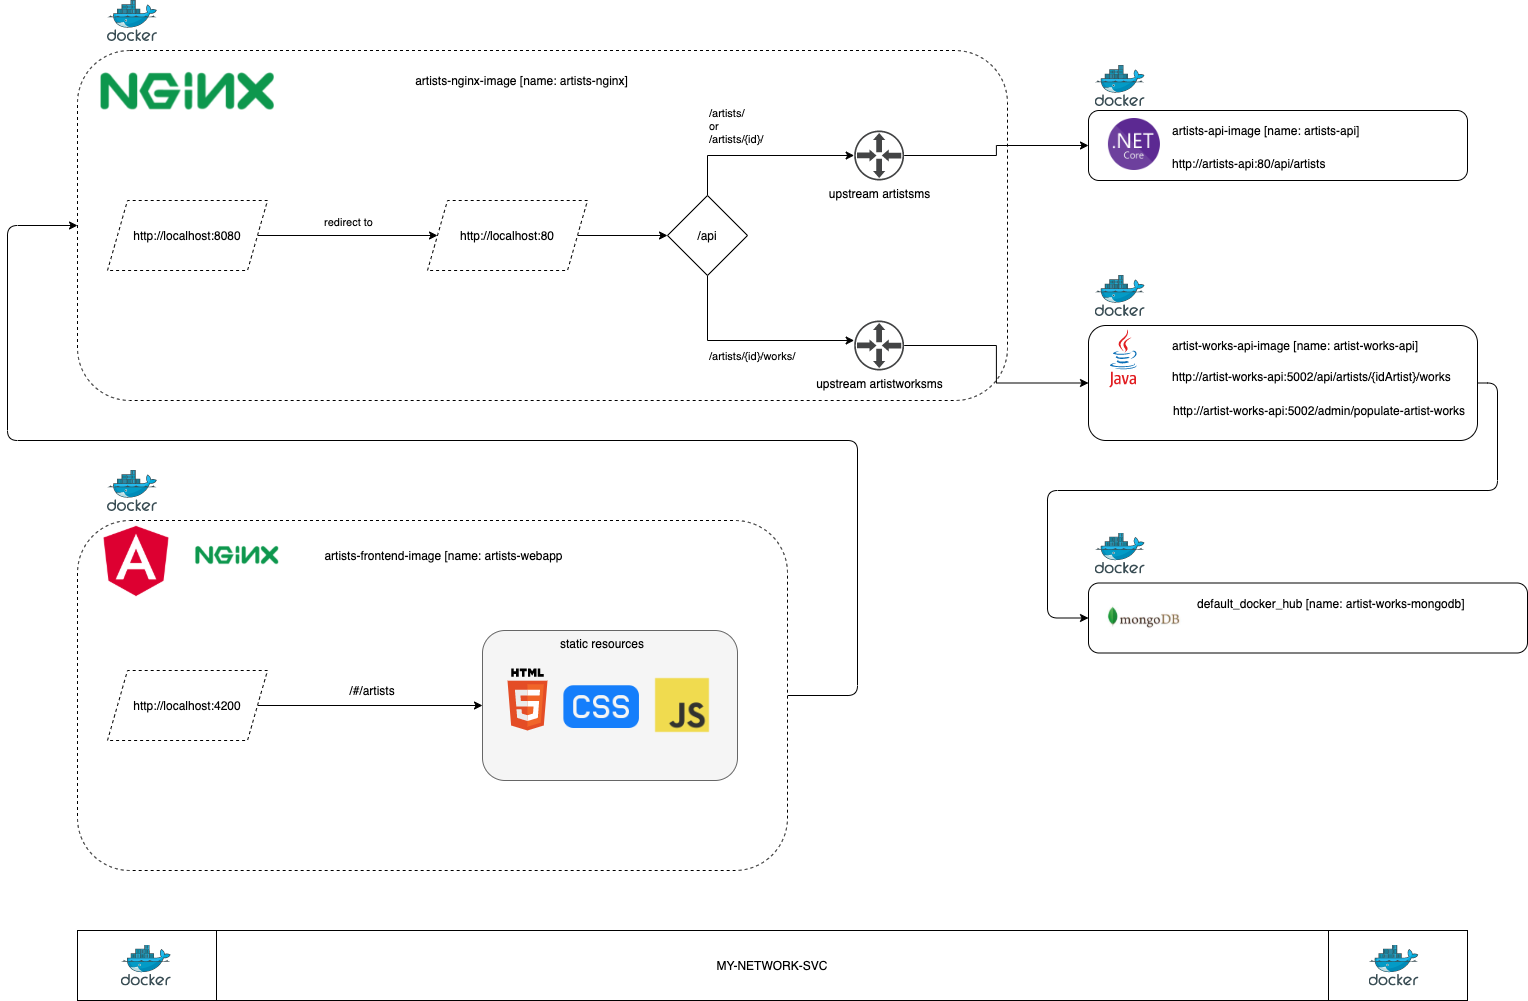
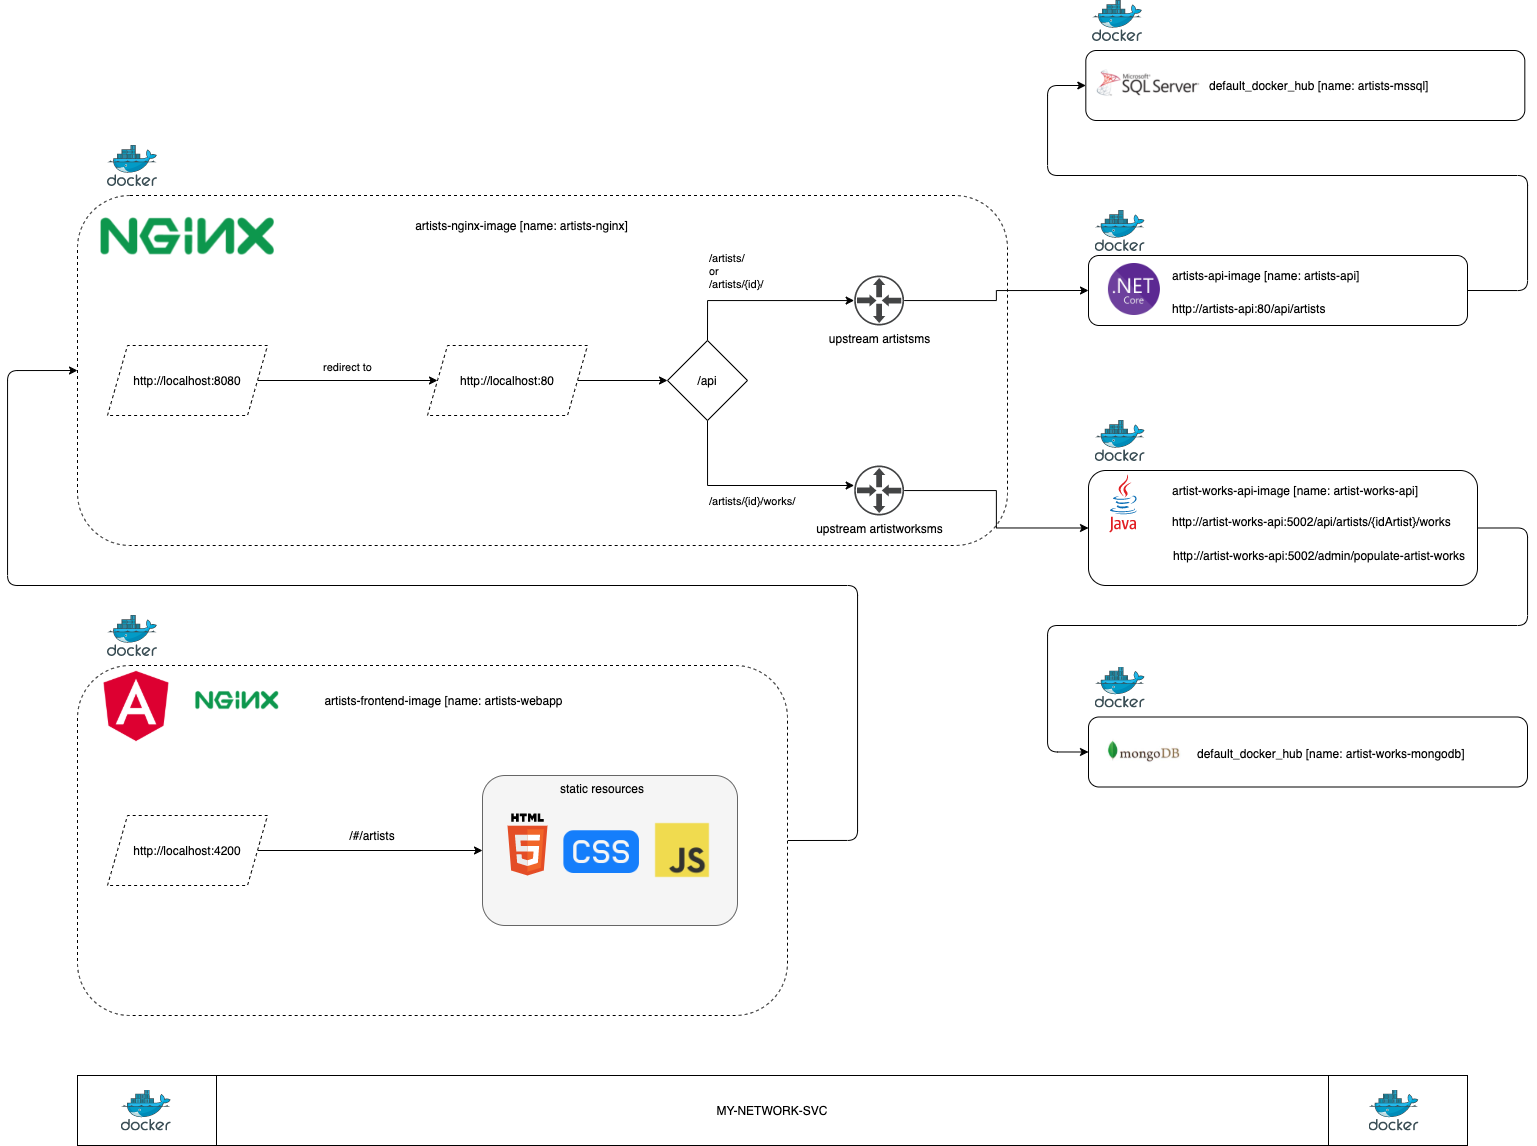
Including SQL Server

diff --git a/solutions/artists-backend/artists/artists-api/Repository/ArtistsRepository.cs b/solutions/artists-backend/artists/artists-api/Repository/ArtistsRepository.cs
@@ -1,36 +1,48 @@
 using System;
 using System.Collections.Generic;
+using System.Data.SqlClient;
 
 namespace artists_api.Repository
 {
-    public class ArtistsRepository
+    public class ArtistsRepository: ConnectionDBFactory
     {
         
         public ArtistsRepository()
         {
         }
 
-        public static List<Artist> FindAll()
+        public List<Artist> FindAll()
         {
 
-            Artist _1 = new Artist(1, "Amy Winehouse", DateTime.Parse("1983-09-14"), "Music");
-            Artist _2 = new Artist(2, "Kurt Cobain", DateTime.Parse("1967-02-20"), "Music");
-            Artist _3 = new Artist(3, "Vincent van Gogh", DateTime.Parse("1853-03-30"), "Painter");
-            Artist _4 = new Artist(4, "J. R. R. Tolkien", DateTime.Parse("1892-01-01"), "Writer");
-            Artist _5 = new Artist(5, "Jane Austen", DateTime.Parse("1775-12-16"), "Writer");
-
             List<Artist> Artists = new List<Artist>();
+            
+            using (SqlConnection connection = GetConnection())
+            {
+                connection.Open();
 
-            Artists.Add(_1);
-            Artists.Add(_2);
-            Artists.Add(_3);
-            Artists.Add(_4);
-            Artists.Add(_5);
+                String sql = "SELECT id, name, birthday, area FROM artists";
 
+                using (SqlCommand command = new SqlCommand(sql, connection))
+                {
+                    using (SqlDataReader reader = command.ExecuteReader())
+                    {
+                        while (reader.Read())
+                        {
+                            int id = reader.GetInt32(0);
+                            string name = reader.GetString(1);
+                            DateTime birthday = reader.GetDateTime(2);
+                            string area = reader.GetString(3);
+
+                            Artist artist = new Artist(id, name, birthday, area);
+
+                            Artists.Add(artist);
+                        }
+                    }
+                }
+            }
 
             return Artists;
         }
-
 
     }
 }

diff --git a/solutions/artists-backend/artists/artists-api/Services/FindArtists.cs b/solutions/artists-backend/artists/artists-api/Services/FindArtists.cs
@@ -7,15 +7,16 @@ namespace artists_api.Services
 {
     public class FindArtists
     {
+        private ArtistsRepository artistsRepository;
 
         public FindArtists()
         {
-            
+            this.artistsRepository = new ArtistsRepository();
         }
 
         public List<Artist> Get(string ageGreaterThanEqual = null)
         {
-            List<Artist> artists = ArtistsRepository.FindAll();
+            List<Artist> artists = artistsRepository.FindAll();
 
             if (!string.IsNullOrEmpty(ageGreaterThanEqual))
             {
@@ -28,7 +29,7 @@ namespace artists_api.Services
 
         public Artist GetOne(int id)
         {
-            List<Artist> artists = ArtistsRepository.FindAll();
+            List<Artist> artists = artistsRepository.FindAll();
 
             return ArtistsFilter.ById(artists, id);
         }

diff --git a/solutions/artists-backend/artists/artists-api/Repository/ConnectionDBFactory.cs b/solutions/artists-backend/artists/artists-api/Repository/ConnectionDBFactory.cs
@@ -1,0 +1,25 @@
+using System;
+using System.Data.SqlClient;
+
+namespace artists_api.Repository
+{
+    public class ConnectionDBFactory
+    {
+        public ConnectionDBFactory()
+        {
+        }
+
+        public SqlConnection GetConnection()
+        {
+            SqlConnectionStringBuilder builder = new SqlConnectionStringBuilder();
+
+            builder.DataSource = Environment.GetEnvironmentVariable("MSSQL_SERVER");
+            builder.UserID = Environment.GetEnvironmentVariable("MSSQL_USERNAME");
+            builder.Password = Environment.GetEnvironmentVariable("MSSQL_PASSWORD");
+            builder.InitialCatalog = Environment.GetEnvironmentVariable("MSSQL_DATABASE");
+
+            return new SqlConnection(builder.ConnectionString);
+        }
+
+    }
+}

diff --git a/solutions/README.md b/solutions/README.md
@@ -2,23 +2,15 @@
 
 ![Architecture](../img/solution-v04.png)
 
-Para o exercício version_04, utilizaremos o `docker-compose` para nos auxiliar a subir os serviços.
+A. API .Net Core utilizando SQL Server
 
-A. Refactoring
+B. API Java utilizando MongoDB
 
-B. API Java buscando dados do MongoDB
+C. Melhoria no docker-compose para definir dependencia entre services
 
-C. Rota para popular previamente os dados da Collections: `http://localhost:5002/admin/populate-artist-works`
+D. Refactoring do código
 
-D. Melhoria no docker-compose para definir dependencia entre services
-
-
-## 1- Buildar imagem mongo para a API artist-works-api
-
-```
-Caminho:
-/learning-architecture-containers/solutions
-```
+## MongoDB para API artist-works-api
 
 Modifique o arquivo `docker-compose.yaml` e inclua o conteúdo:
 
@@ -32,17 +24,35 @@ artist-works-mongodb:
         - MONGO_INITDB_ROOT_PASSWORD=secret@123
 ```
 
-## 2- Executar o docker-compose
+### Carga MONGODB
+
+Ao subir os serviços com `docker-compose`, execute a URL de carga:
 
 ```
-Caminho: 
-/learning-architecture-containers/solutions
+http://localhost:5002/admin/populate-artist-works
+```
 
-# remove todas as imagens
-docker compose down --rmi 'all'
+## SQL Server para API artists-api
 
-# recria as imagens
-docker compose up -d
+Modifique o arquivo `docker-compose.yaml` e inclua o conteúdo:
+
+```yaml
+artists-mssql:
+    image: mcr.microsoft.com/mssql/server:2017-latest
+    ports:
+    - "1433:1433"
+    environment: 
+        - ACCEPT_EULA=Y
+        - SA_PASSWORD=secret@456
+```
+
+### Script SQL
+
+Ao subir os serviços com `docker-compose`, conecte-se com seu banco de dados e execute o script:
+
+```
+Caminho:
+/learning-architecture-containers/solutions/artists-mssql/ddl_script.sql
 ```
 
 
